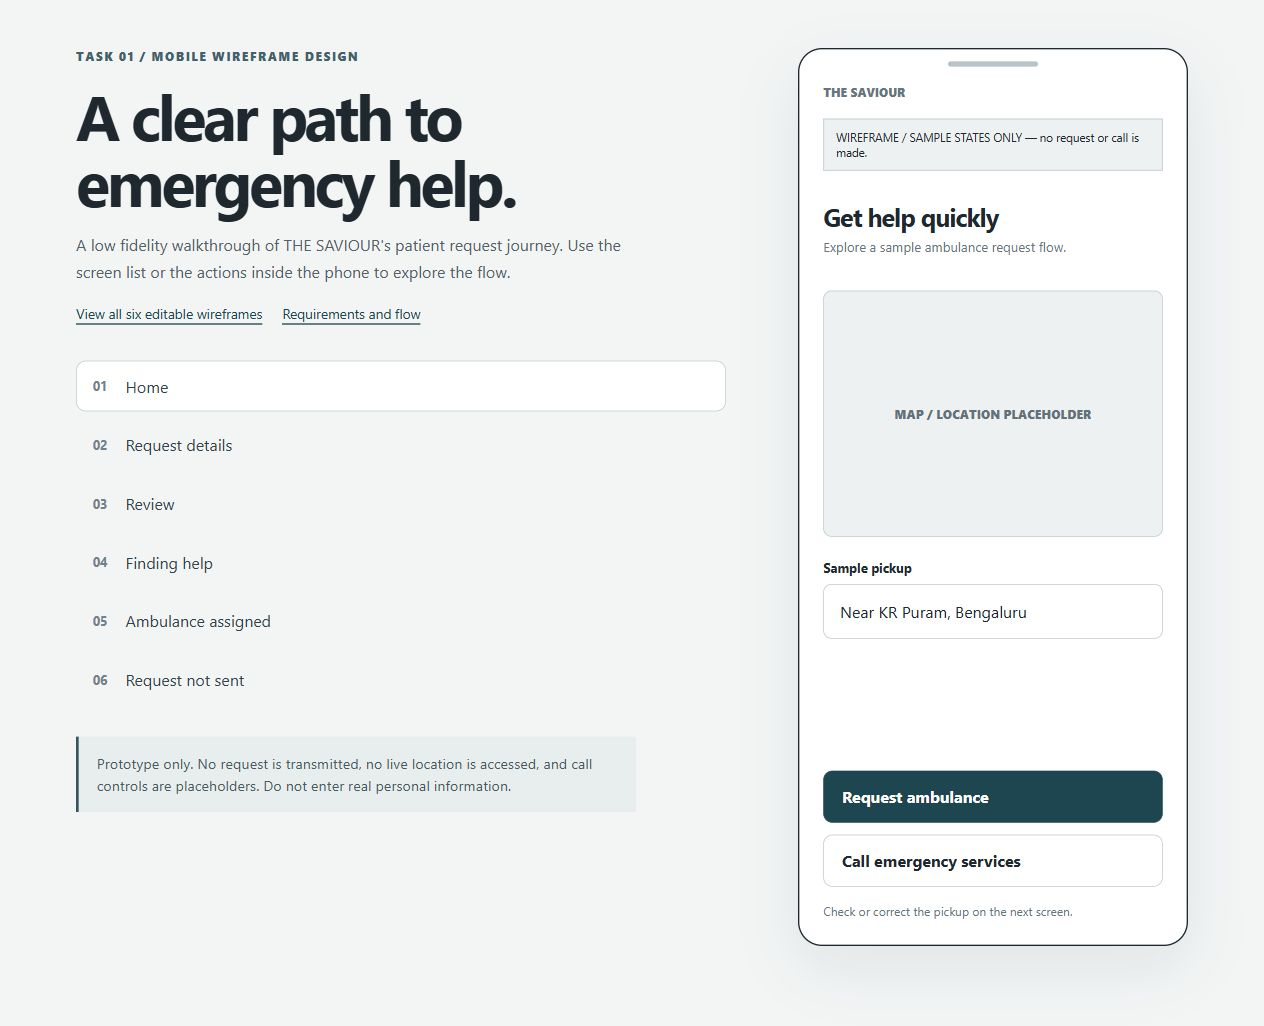
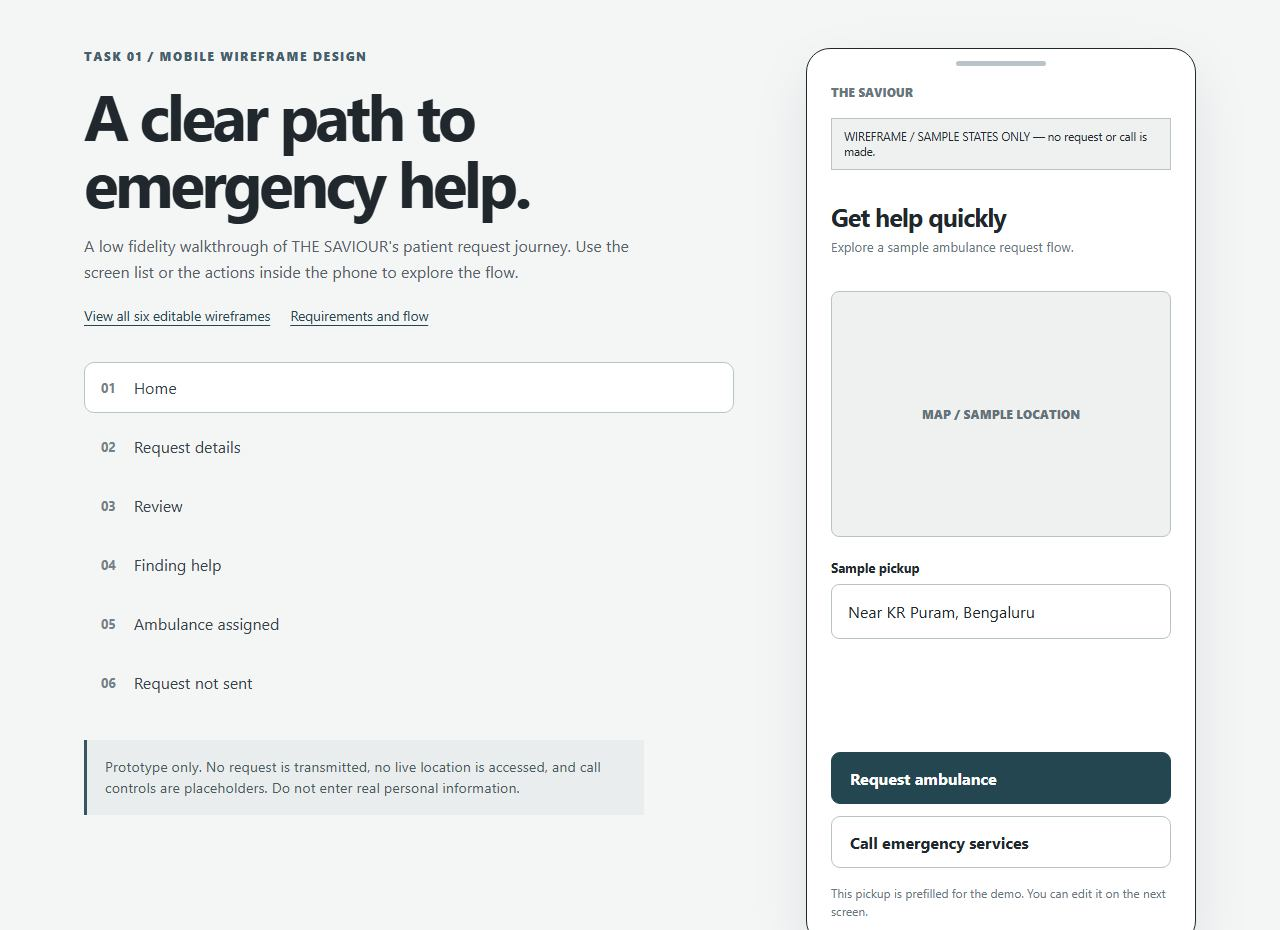
Refresh submission evidence for the revised prototype

diff --git a/task-01-mobile-wireframes/EVALUATION.md b/task-01-mobile-wireframes/EVALUATION.md
@@ -62,4 +62,13 @@ Source, screenshots and branch/folder are included. Video is optional. The initi
 
 Temporary Vercel sharing is not a dependable permanent submission artifact. Generating another public share link was blocked by automatic approval review after the audit resumed; no security setting was changed.
 
+## Submission evidence refresh · 20 November 2026
 
+The editable six-screen SVG and the walkthrough now both identify the prefilled sample pickup and explain that it can be edited on the next screen. The board also shows the 10-digit fictional contact hint.
+
+The screenshots below were recaptured from the revised prototype. Earlier evidence files are historical.
+
+- [01-home-desktop.jpg](screenshots/01-home-desktop.jpg)
+- [02-details.jpg](screenshots/02-details.jpg)
+- [07-mobile.jpg](screenshots/07-mobile.jpg)
+- [08-wireframes-board.jpg](screenshots/08-wireframes-board.jpg)
